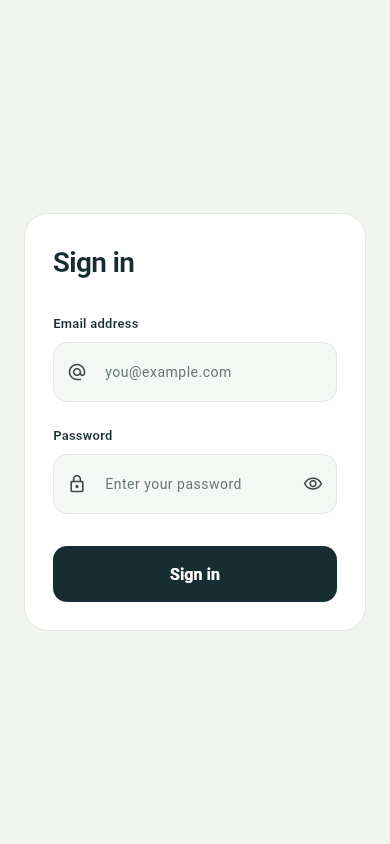
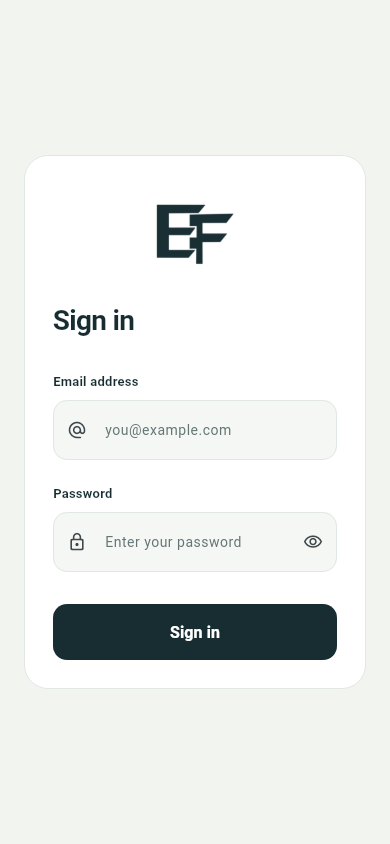
feat: add EF monogram to login page
Add a custom EF logo above the sign-in form and refresh the README screenshot. Include the logo as a bundled asset.

diff --git a/lib/main.dart b/lib/main.dart
@@ -83,6 +83,17 @@ class _LoginPageState extends State<LoginPage> {
                       mainAxisSize: MainAxisSize.min,
                       crossAxisAlignment: CrossAxisAlignment.stretch,
                       children: [
+                        Center(
+                          child: Image.asset(
+                            'assets/images/ef-logo.png',
+                            width: 96,
+                            height: 96,
+                            color: _ink,
+                            colorBlendMode: BlendMode.srcIn,
+                            semanticLabel: 'EF logo',
+                          ),
+                        ),
+                        const SizedBox(height: 20),
                         const Text(
                           'Sign in',
                           style: TextStyle(

diff --git a/test/screenshot_test.dart b/test/screenshot_test.dart
@@ -19,6 +19,12 @@ void main() {
     addTearDown(tester.view.reset);
 
     await tester.pumpWidget(const RepaintBoundary(child: LoginApp()));
+    await tester.runAsync(
+      () => precacheImage(
+        const AssetImage('assets/images/ef-logo.png'),
+        tester.element(find.byType(LoginApp)),
+      ),
+    );
     await tester.pumpAndSettle();
     await expectLater(
       find.byType(LoginApp),

diff --git a/README.md b/README.md
@@ -1,10 +1,10 @@
 # Flutter Login
 
-A simple, responsive Flutter login page with email and password fields, input validation, and a password visibility toggle.
+A simple, responsive Flutter login page with an EF monogram, email and password fields, input validation, and a password visibility toggle.
 
 ## Screenshot
 
-<img src="screenshots/login.png" alt="Login page with email and password fields and a sign-in button" width="390">
+<img src="screenshots/login.png" alt="Login page with an EF monogram, email and password fields, and a sign-in button" width="390">
 
 ## Run locally
 
